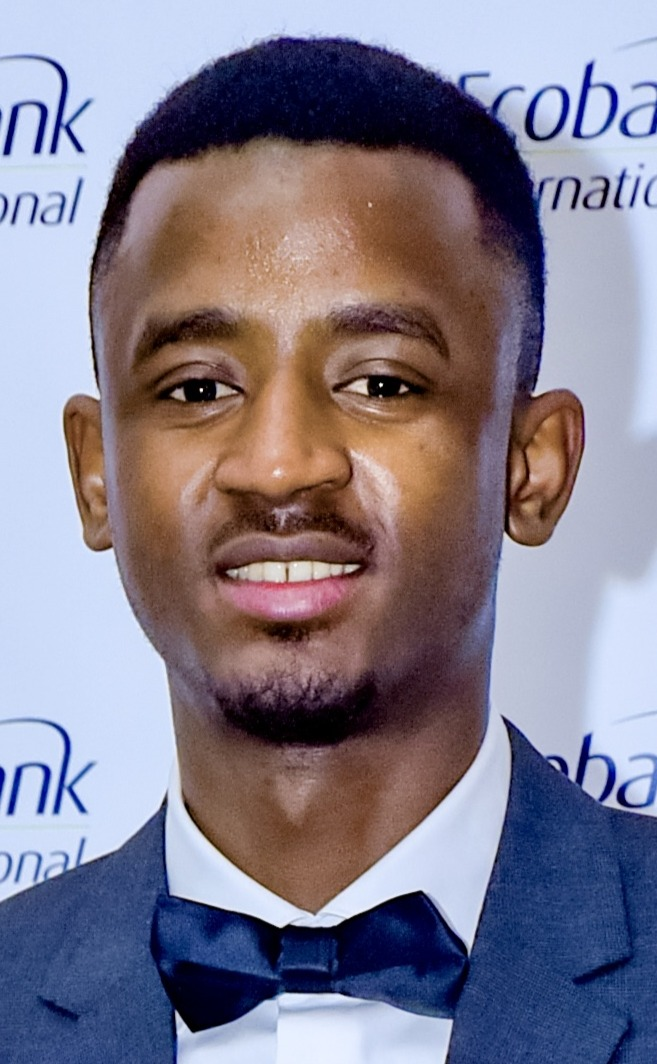
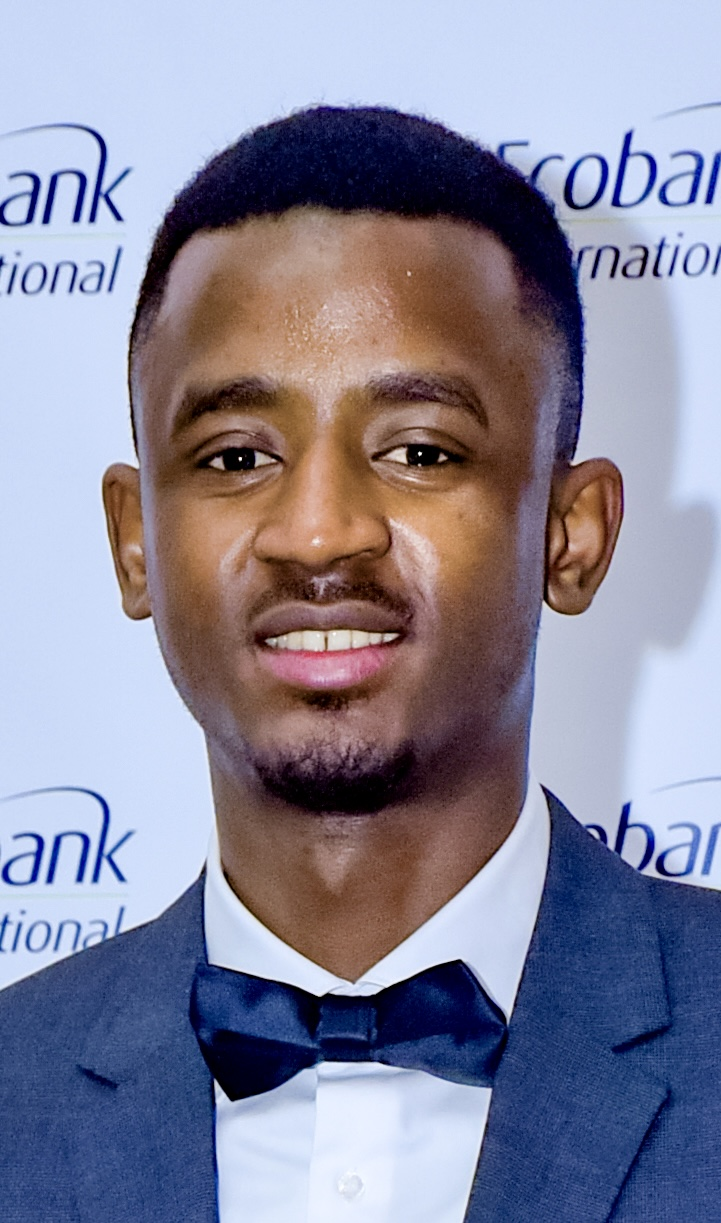
Add files via upload

diff --git a/style.css b/style.css
@@ -122,7 +122,7 @@ nav {
     display: flex; align-items: center; justify-content: center; gap: 80px;
     max-width: 1200px; width: 100%;
 }
-/* --- PHOTO DE PROFIL & ANNEAU RADAR (V16 : CADRAGE OPTIMISÉ VISAGE + BUSTE) --- */
+/* --- PHOTO DE PROFIL & ANNEAU RADAR (V15 : TRAIT FIN & CADRAGE VISAGE) --- */
 
 .profile-img-container {
     width: 350px; 
@@ -130,7 +130,7 @@ nav {
     flex-shrink: 0;
     border-radius: 50%; 
     
-    /* TRAIT NOIR FIN */
+    /* 1. TRAIT NOIR FIN : On réduit l'espace au minimum */
     padding: 6px; 
     
     background: #1a1a1d; 
@@ -160,7 +160,7 @@ nav {
     -webkit-mask-composite: xor;
     mask-composite: exclude;
     
-    /* BRILLANCE MAXIMALE */
+    /* 2. BRILLANCE MAXIMALE */
     filter: drop-shadow(0 0 25px var(--accent-color));
     
     animation: spin-ring 3s linear infinite; 
@@ -178,33 +178,14 @@ nav {
     object-fit: cover; 
     border-radius: 50%;
     
-    /* ✅ NOUVEAU CADRAGE : Dézoomé pour voir front + nœud + buste */
-    object-position: center 20%; 
+    /* 3. CADRAGE PARFAIT (FRONT + NŒUD) */
+    /* 35% = On vise le haut du visage pour ne pas couper le front */
+    /* Comme la photo remplit tout le cercle (trait fin), on verra aussi le bas */
+    object-position: center 35%; 
     
     border: none; 
     z-index: 2;
 }
-
-/* Animation float (si pas déjà définie ailleurs) */
-@keyframes float {
-    0%, 100% {
-        transform: translateY(0px);
-    }
-    50% {
-        transform: translateY(-15px);
-    }
-}
-
-/* Animation rotation anneau (si pas déjà définie ailleurs) */
-@keyframes spin-ring {
-    0% {
-        transform: rotate(0deg);
-    }
-    100% {
-        transform: rotate(360deg);
-    }
-}
-
 
 
 @keyframes spin-ring {
